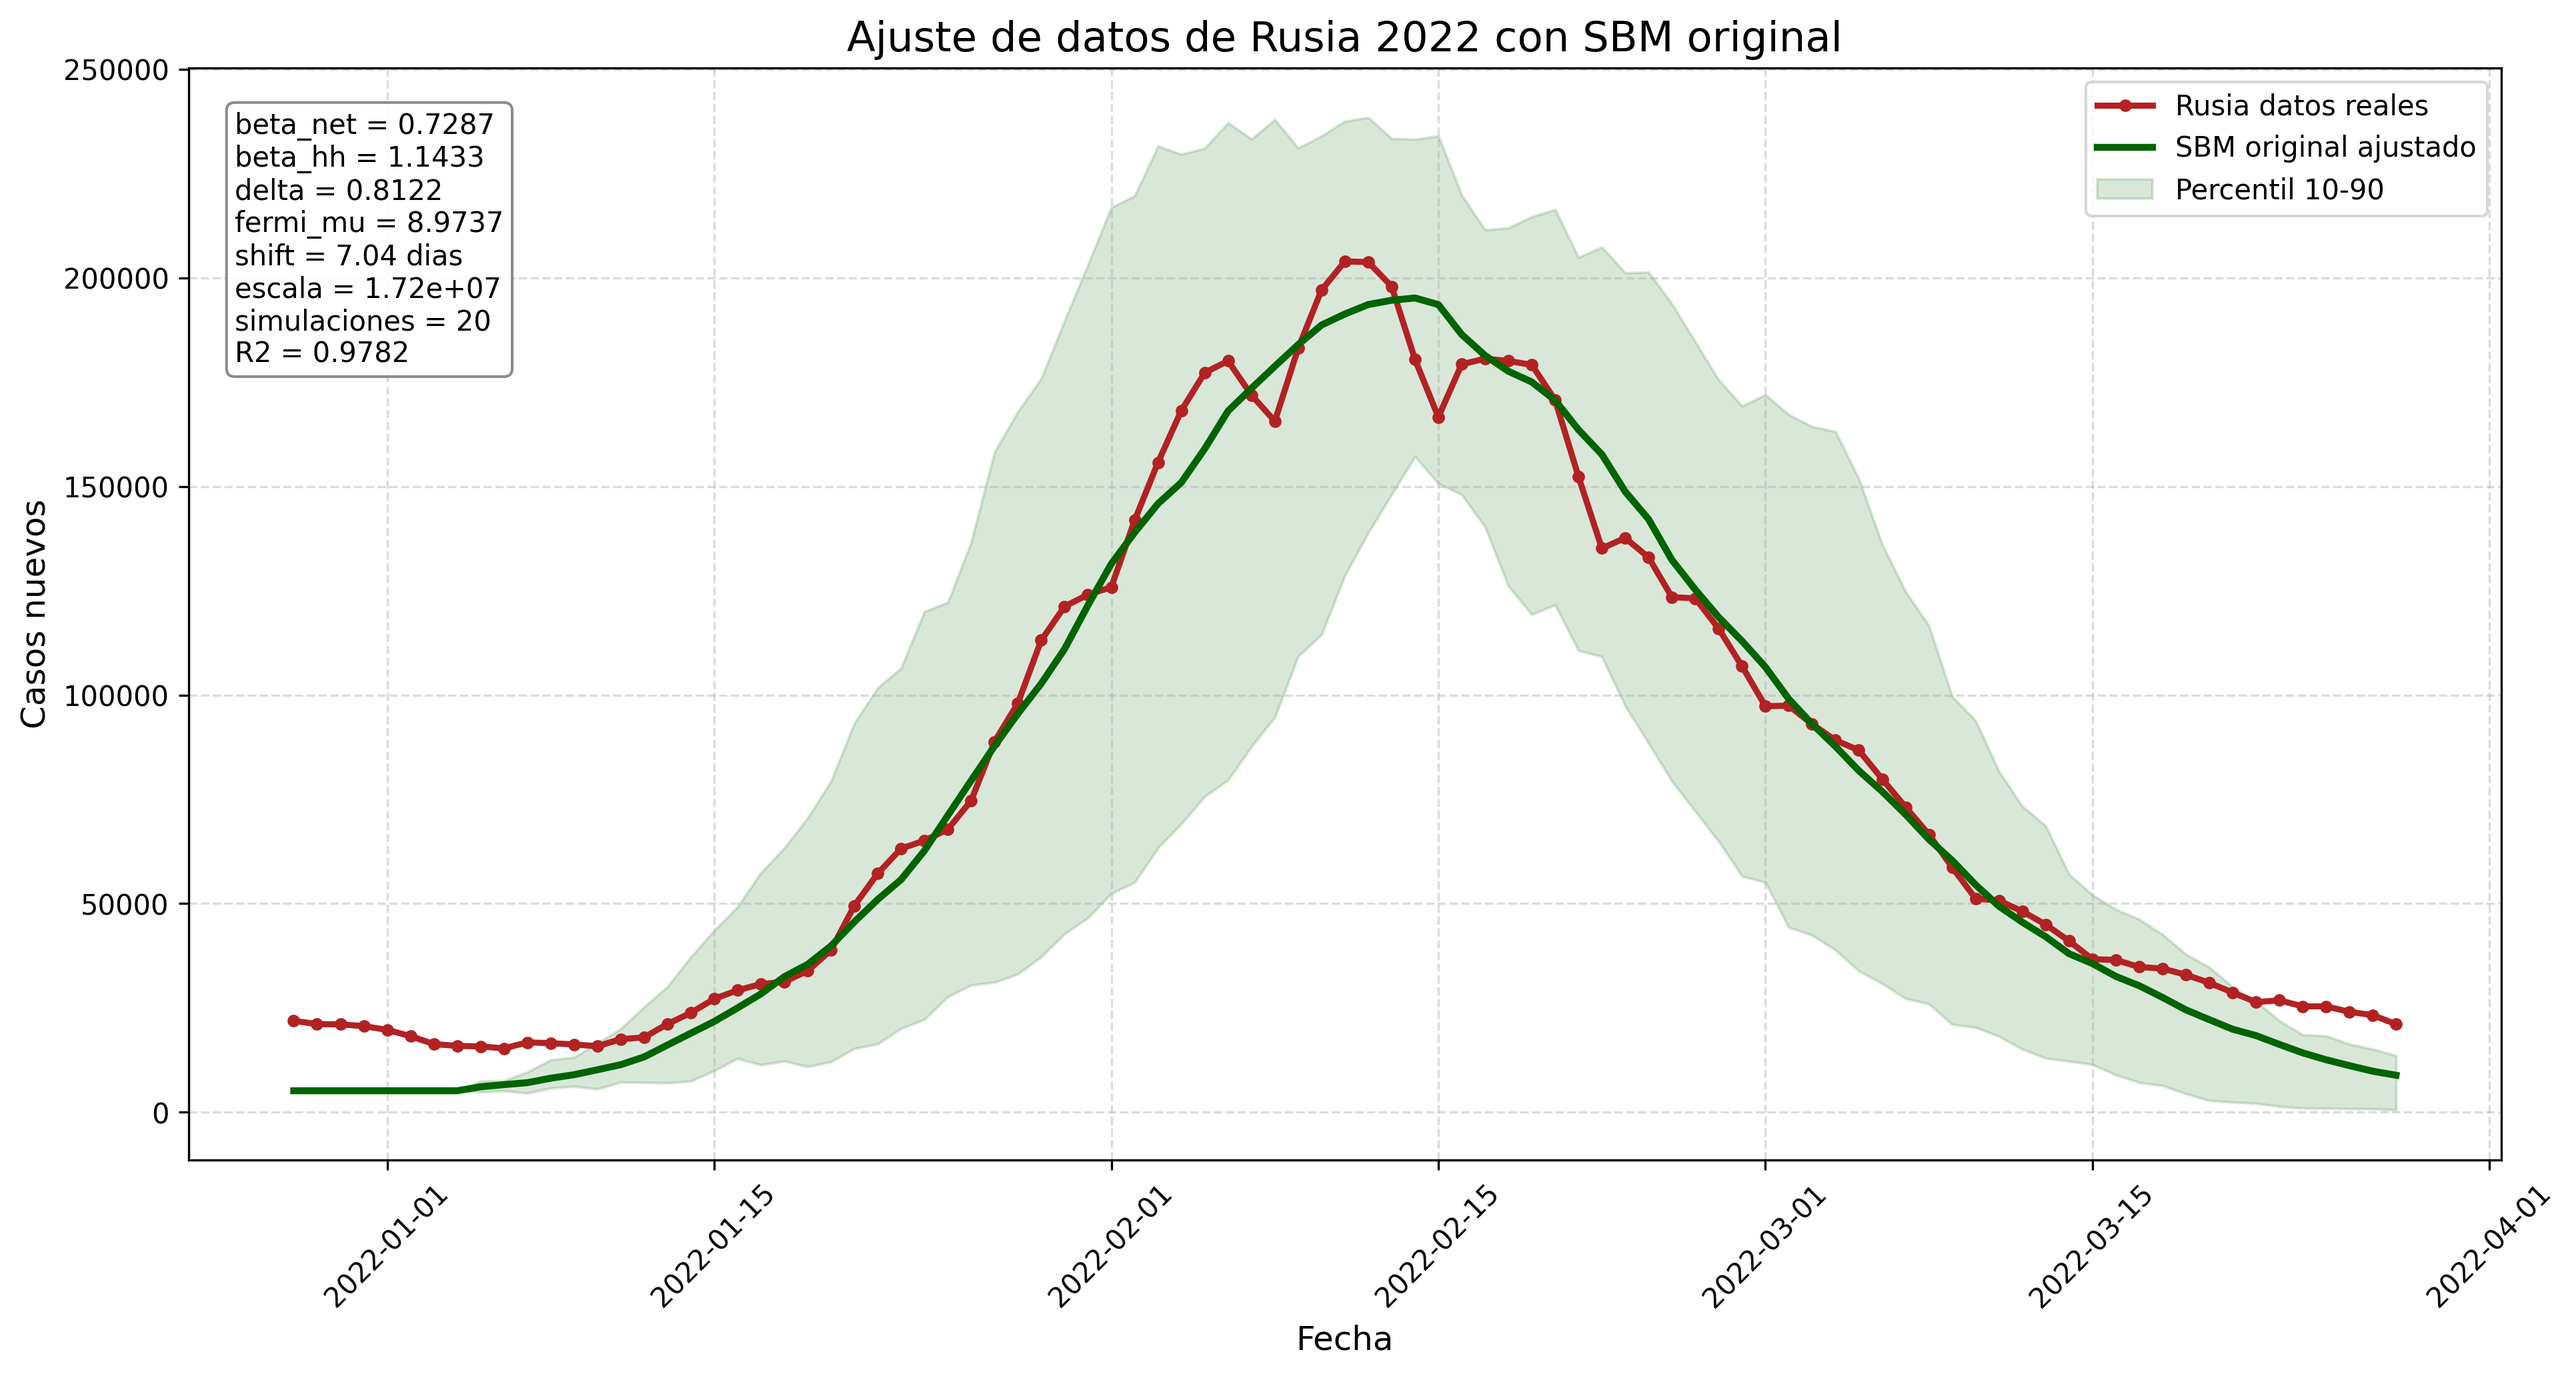
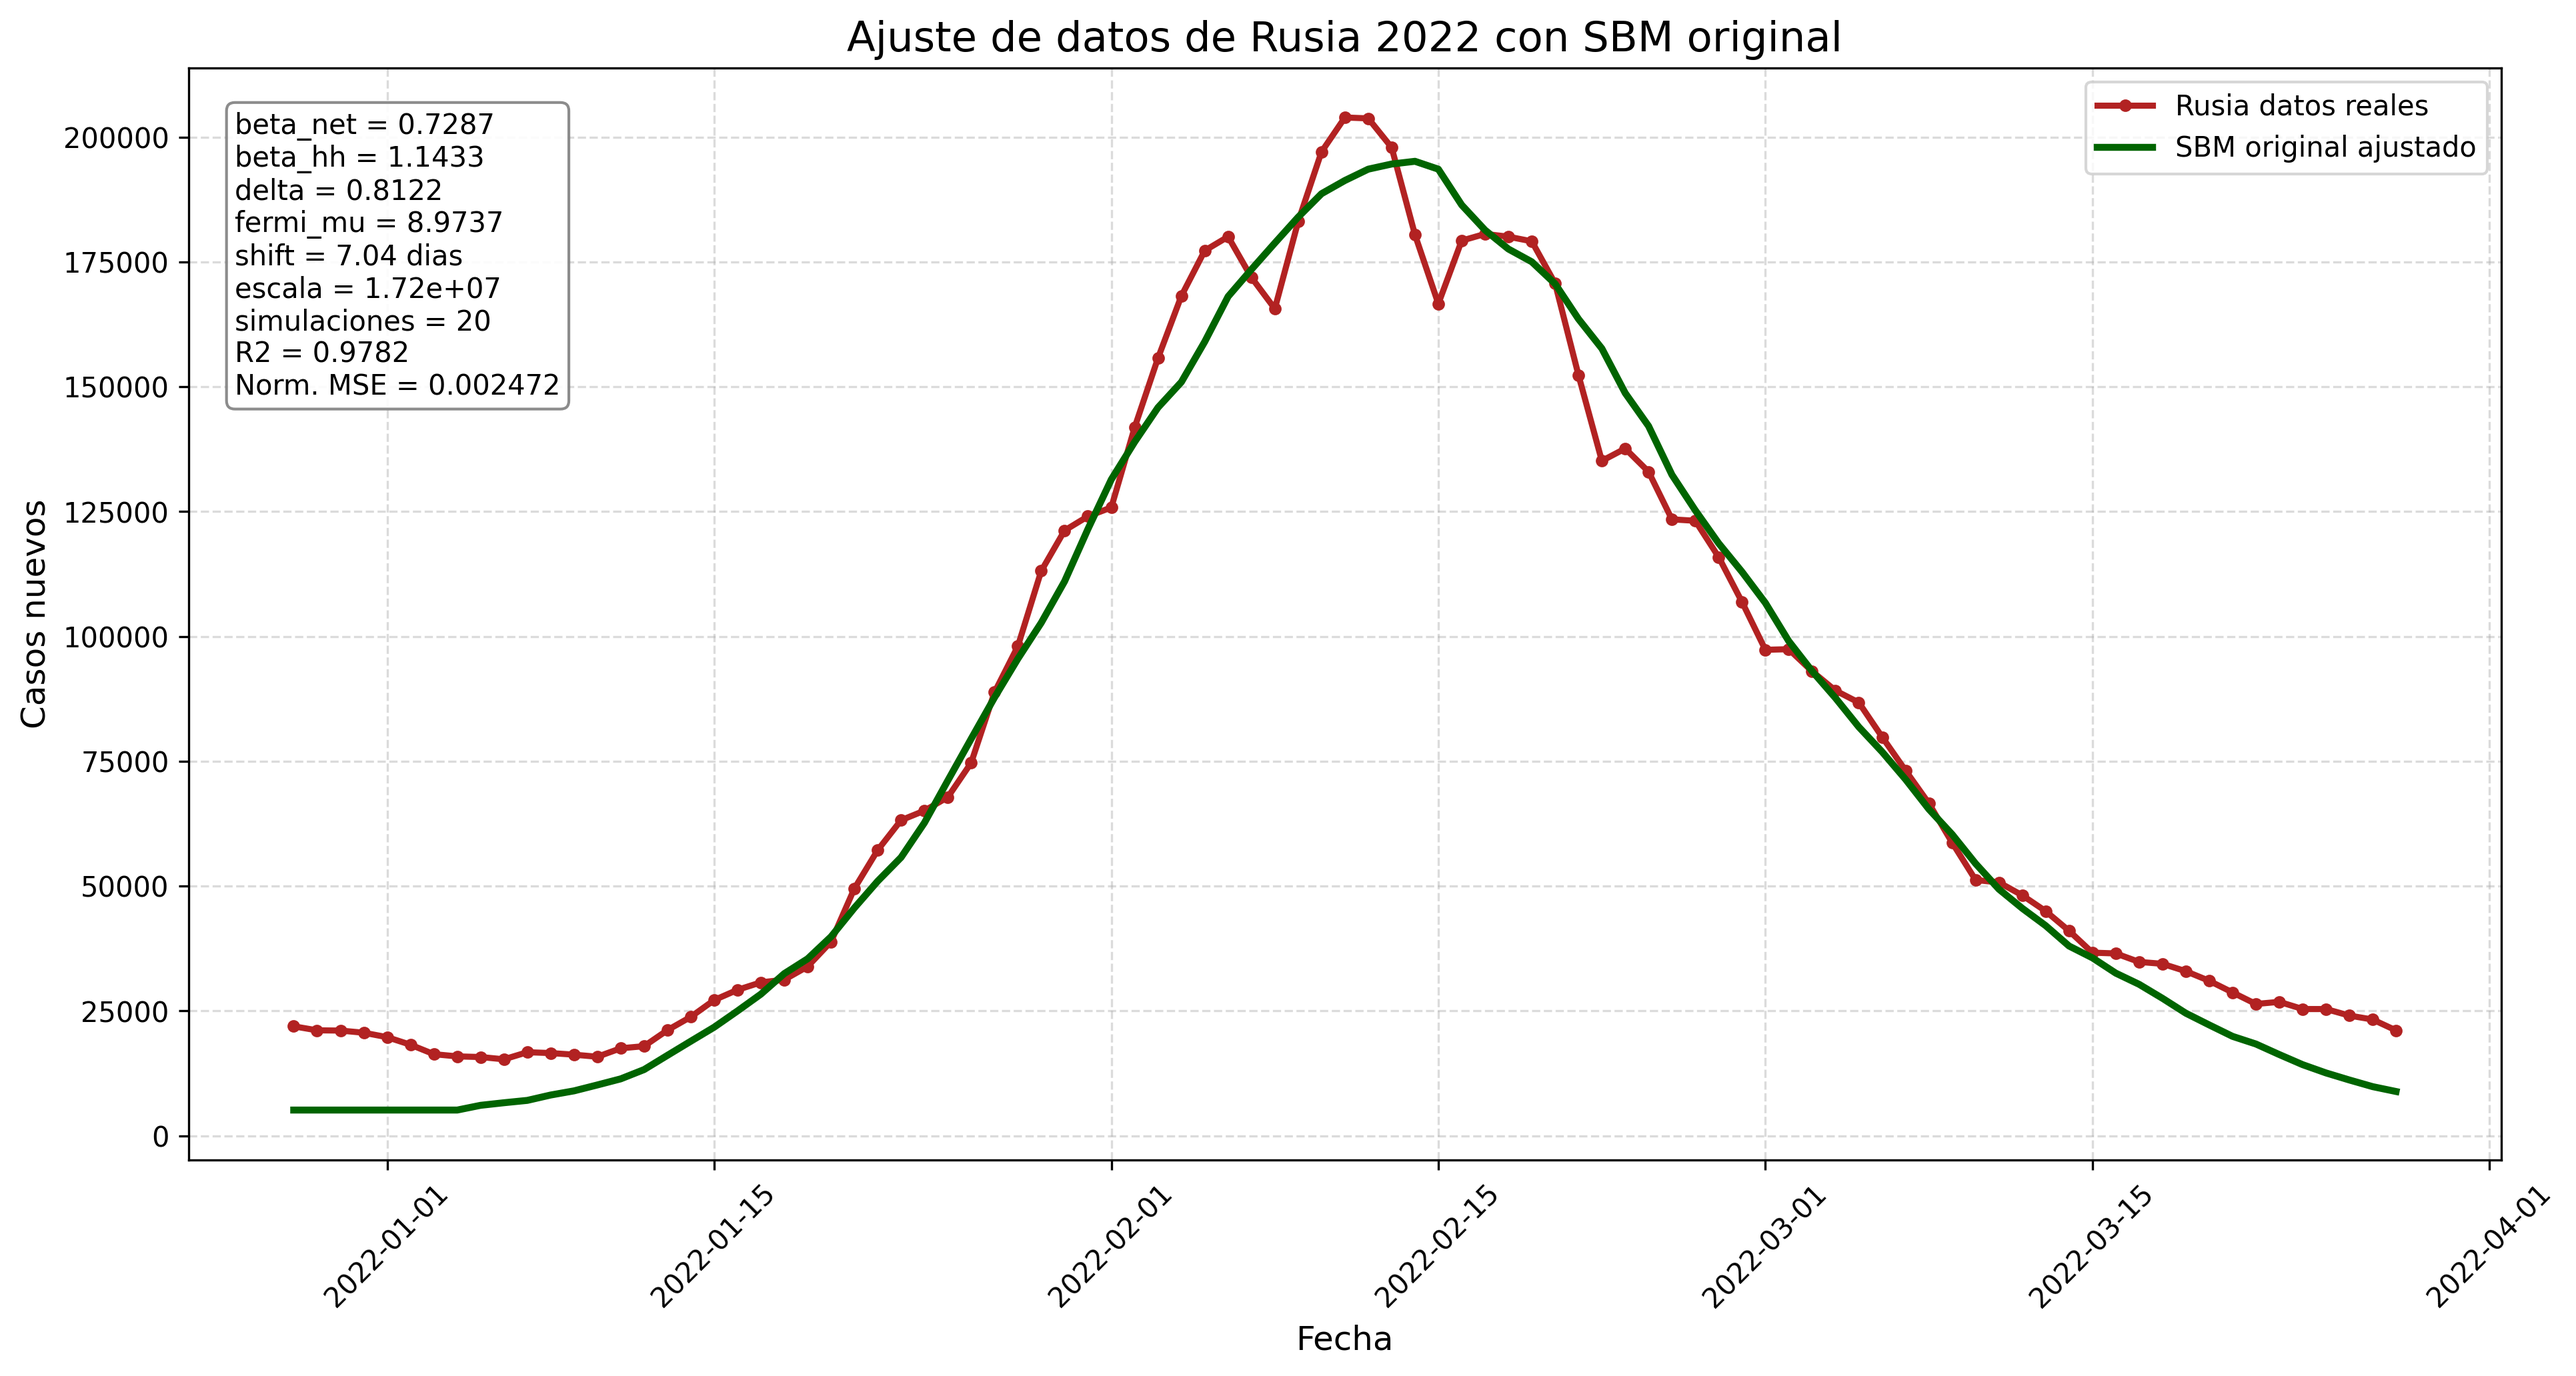
Se añadio SME normalizado

diff --git a/fit_rusia_with_original_sbm.py b/fit_rusia_with_original_sbm.py
@@ -247,7 +247,6 @@ def save_results(df, params, metrics, pred_cases, lower, upper, seed, bounds):
     plt.figure(figsize=(13, 7))
     plt.plot(dates, real_cases, color="firebrick", linewidth=2.2, marker="o", markersize=3.5, label="Rusia datos reales")
     plt.plot(dates, pred_cases, color="darkgreen", linewidth=2.5, label="SBM original ajustado")
-    plt.fill_between(dates, lower, upper, color="darkgreen", alpha=0.15, label="Percentil 10-90")
     plt.title("Ajuste de datos de Rusia 2022 con SBM original", fontsize=15)
     plt.xlabel("Fecha", fontsize=12)
     plt.ylabel("Casos nuevos", fontsize=12)
@@ -264,6 +263,7 @@ def save_results(df, params, metrics, pred_cases, lower, upper, seed, bounds):
             f"escala = {params['scale_cases']:.2e}",
             f"simulaciones = {int(params['num_sims'])}",
             f"R2 = {metrics['r2']:.4f}",
+            f"Norm. MSE = {metrics['shape_mse']:.6f}",
         ]
     )
     plt.gca().text(

diff --git a/fit_rusia_with_surrogate.py b/fit_rusia_with_surrogate.py
@@ -162,6 +162,7 @@ def save_results(df, params, metrics, pred_cases):
             f"shift = {params['shift_days']:.2f} dias",
             f"escala = {params['scale_cases']:.2e}",
             f"R2 = {metrics['r2']:.4f}",
+            f"Norm. MSE = {metrics['shape_mse']:.6f}",
         ]
     )
     plt.gca().text(
